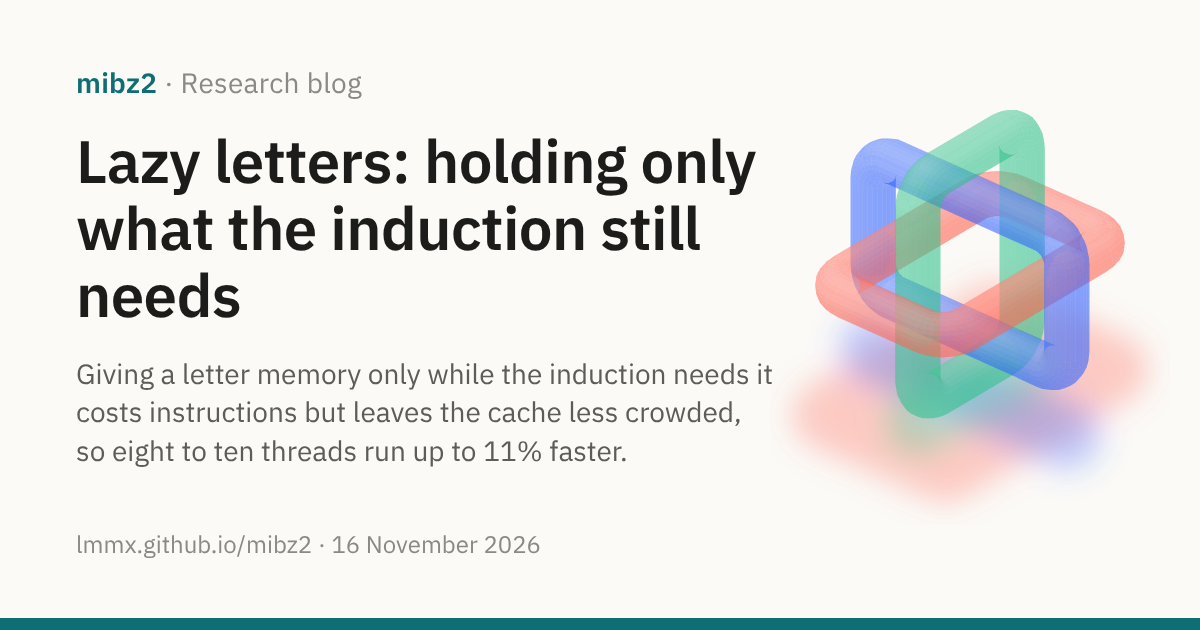
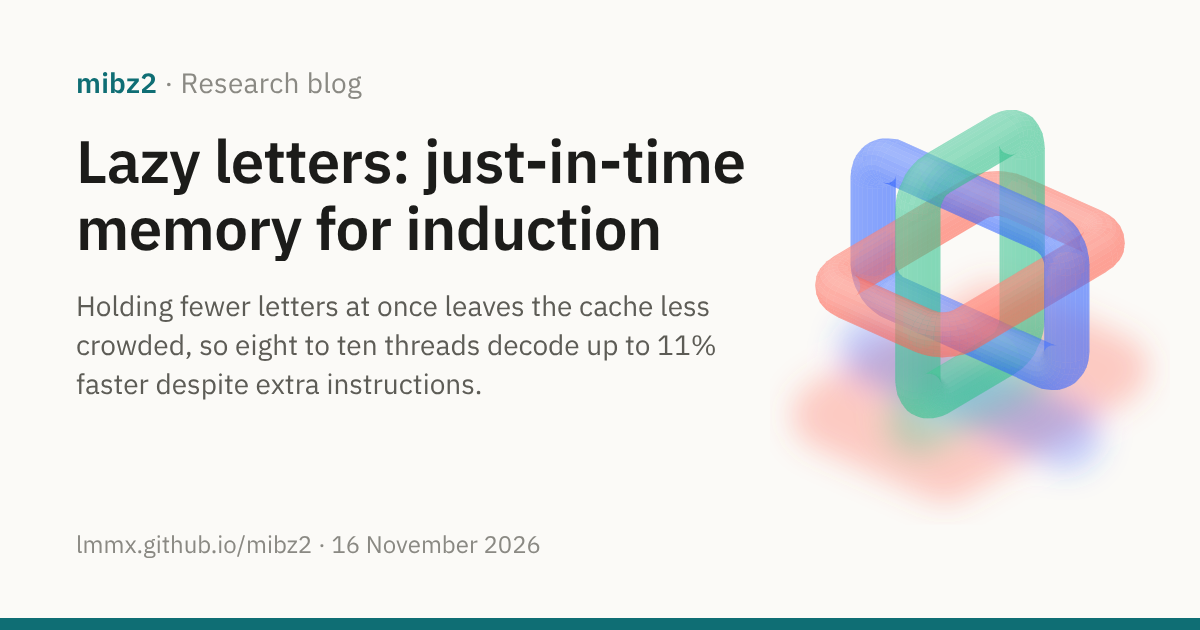
Lazy letters post: final title and dek; card, cards.json, index and llms.txt to match

Changed region(s): [[0.0617, 0.4222, 0.6475, 0.754], [0.0617, 0.2111, 0.6475, 0.4222]]

diff --git a/docs/site/blog/index.md b/docs/site/blog/index.md
@@ -8,7 +8,7 @@ What mibz2's experiments are finding, and where they go next. The evidence behin
 post is in the [journals](../background/journals.md) and the pull requests they link.
 
 <div class="post-list">
-<a class="post-card" href="2026-11-16-lazy-letters.md"><img src="../assets/social/blog-2026-11-16-lazy-letters.png" alt="" loading="lazy"><span class="post-card-text"><span class="post-card-date">16 November 2026 · Research result</span><span class="post-card-title">Lazy letters: holding only what the induction still needs</span><span class="post-card-dek">Giving a letter memory only while the induction needs it costs instructions but leaves the cache less crowded, so eight to ten threads run up to 11% faster.</span></span></a>
+<a class="post-card" href="2026-11-16-lazy-letters.md"><img src="../assets/social/blog-2026-11-16-lazy-letters.png" alt="" loading="lazy"><span class="post-card-text"><span class="post-card-date">16 November 2026 · Research result</span><span class="post-card-title">Lazy letters: just-in-time memory for induction</span><span class="post-card-dek">Holding fewer letters at once leaves the cache less crowded, so eight to ten threads decode up to 11% faster despite extra instructions.</span></span></a>
 <a class="post-card" href="2026-11-15-free-closure.md"><img src="../assets/social/blog-2026-11-15-free-closure.png" alt="" loading="lazy"><span class="post-card-text"><span class="post-card-date">15 November 2026 · Research result</span><span class="post-card-title">The free closure of an induction: where free steps come to rest</span><span class="post-card-dek">The steps that cost mibz2 no bookkeeping can be taken in any order and still meet at one end point, now proved to belong to the block itself.</span></span></a>
 <a class="post-card" href="2026-11-15-induction-width.md"><img src="../assets/social/blog-2026-11-15-induction-width.png" alt="" loading="lazy"><span class="post-card-text"><span class="post-card-date">15 November 2026 · Research in progress</span><span class="post-card-title">The width of an induction: how much it must hold at once</span><span class="post-card-dek">Taking the steps that cost no bookkeeping first would let mibz2 rebuild a block while keeping about a third as much in memory at its busiest moment.</span></span></a>
 <a class="post-card" href="2026-11-15-bottom-slots.md"><img src="../assets/social/blog-2026-11-15-bottom-slots.png" alt="" loading="lazy"><span class="post-card-text"><span class="post-card-date">15 November 2026 · Research result</span><span class="post-card-title">Removing duplicated interval lengths and text references</span><span class="post-card-dek">mibz2 tracks each run of equal bytes in two orders, and a run's entry in the second shrinks from 20 bytes to 8 by pointing to the first.</span></span></a>

diff --git a/docs/site/blog/2026-11-16-lazy-letters.md b/docs/site/blog/2026-11-16-lazy-letters.md
@@ -1,7 +1,7 @@
 ---
-title: "Lazy letters: holding only what the induction still needs"
+title: "Lazy letters: just-in-time memory for induction"
 image: assets/social/blog-2026-11-16-lazy-letters.png
-description: "Giving a letter memory only while the induction needs it costs instructions but leaves the cache less crowded, so eight to ten threads run up to 11% faster."
+description: "Holding fewer letters at once leaves the cache less crowded, so eight to ten threads decode up to 11% faster despite extra instructions."
 ---
 
 <div class="post-hero" markdown>
@@ -11,9 +11,9 @@ description: "Giving a letter memory only while the induction needs it costs ins
 [mibz2 · Research blog](index.md)
 {: .post-kicker }
 
-# Lazy letters: holding only what the induction still needs
+# Lazy letters: just-in-time memory for induction
 
-Giving a letter memory only while the induction needs it costs instructions but leaves the cache less crowded, so eight to ten threads run up to 11% faster.
+Holding fewer letters at once leaves the cache less crowded, so eight to ten threads decode up to 11% faster despite extra instructions.
 {: .post-dek }
 
 16 November 2026 · 11 min read · [Research result](#5-what-comes-next)
